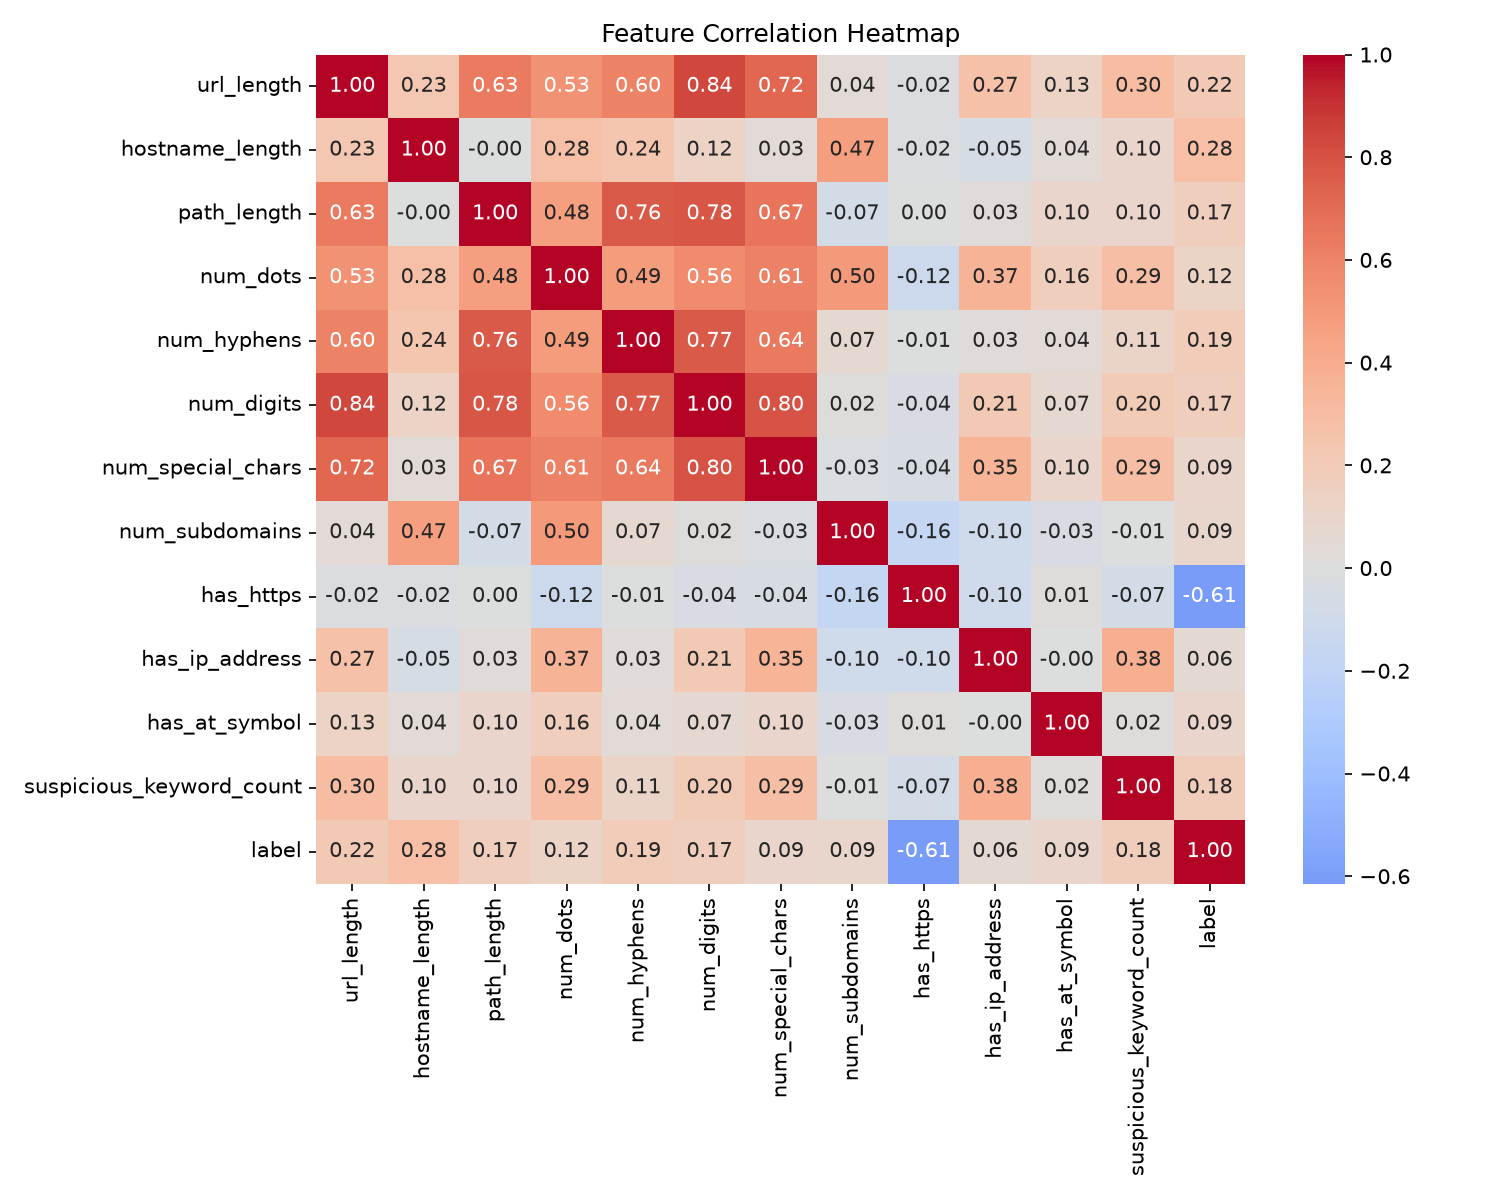
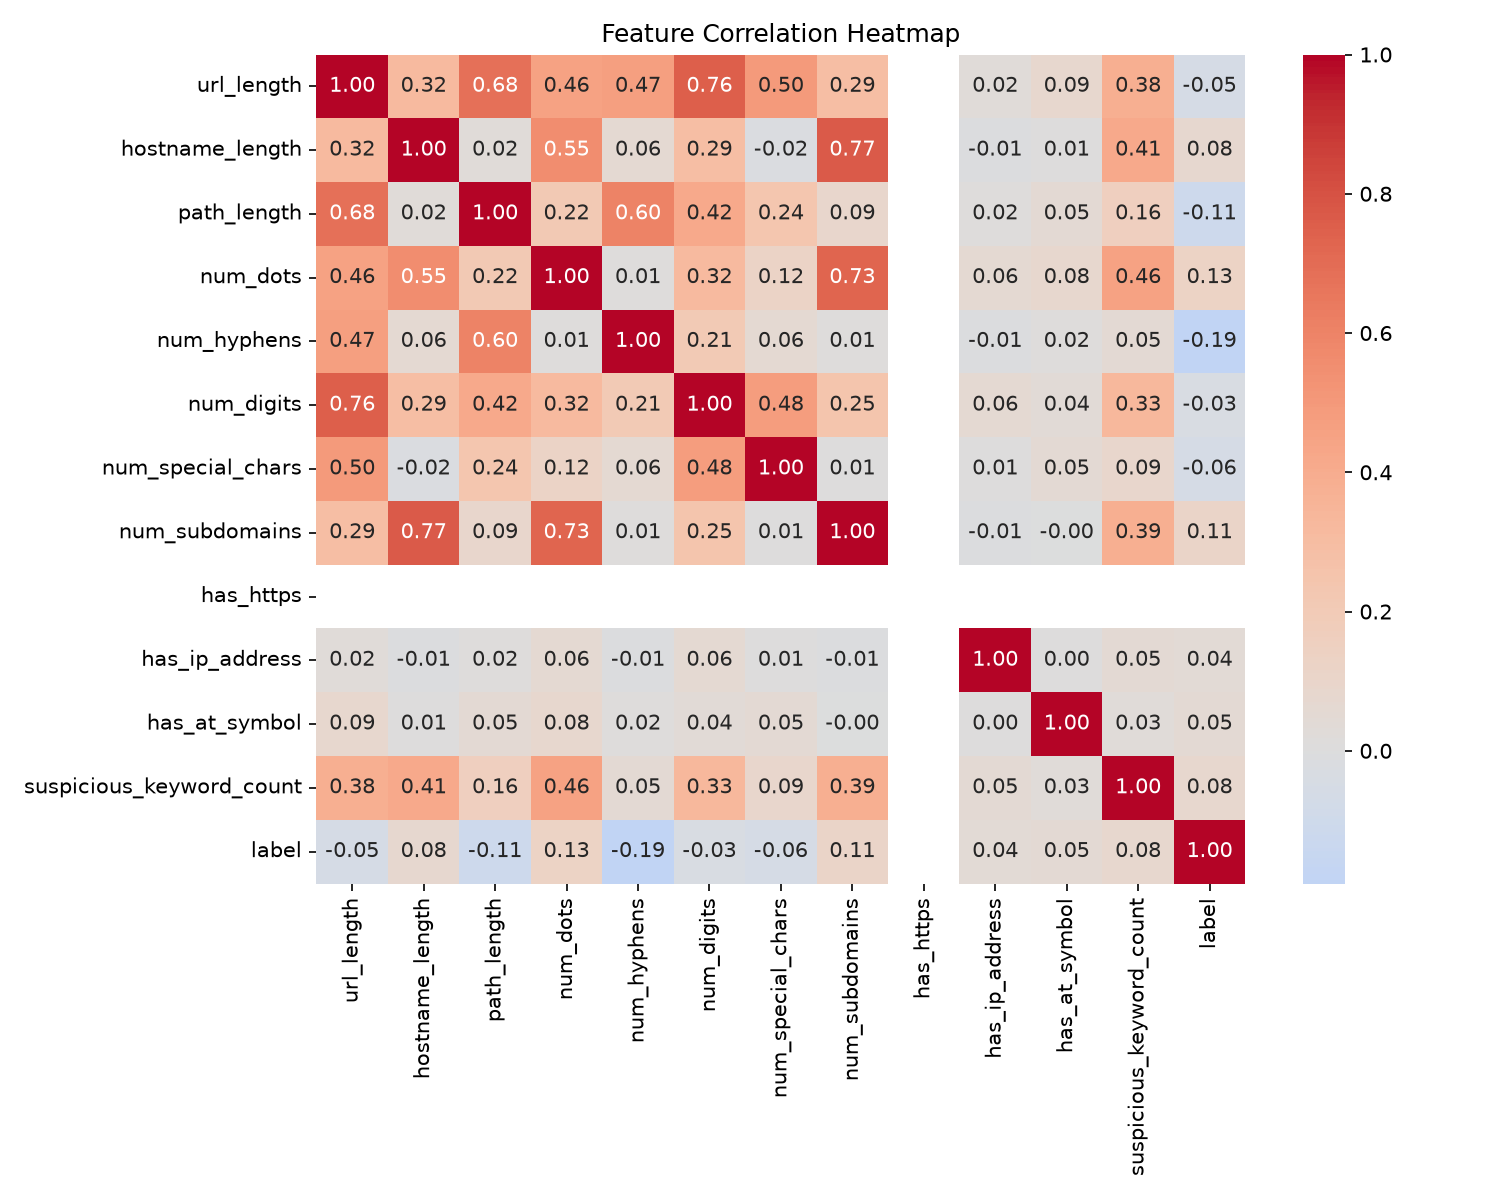
docs(m1): update dataset docs and report for corrected Kaggle+Tranco data

Changed region(s): [[0.184, 0.0308, 0.828, 0.74], [0.8587, 0.2158, 0.9507, 0.74], [0.7053, 0.1542, 0.736, 0.185]]

diff --git a/docs/REPORT.md b/docs/REPORT.md
@@ -2,70 +2,131 @@
 
 ### 4.1 Dataset
 
-**Source:** PhiUSIIL Phishing URL Dataset (Prasad & Chandra, 2024), obtained
-via its UCI Machine Learning Repository listing and downloaded through a
-Kaggle mirror. Licensed under CC BY 4.0.
+**Sources:** the Kaggle "Malicious URLs Dataset" (651,191 URLs labeled
+benign/phishing/defacement/malware) combined with the Tranco top-sites
+list (top 500,000 ranked domains), used as a source of additional
+legitimate bare domains.
 
-We initially considered the older UCI "Phishing Websites" dataset, but it
-contains only pre-extracted numeric features with no raw URL strings —
-unusable for a project whose core requirement is extracting features
-directly from URL text. PhiUSIIL was chosen instead: it provides 235,795
-real URLs labeled as legitimate or phishing, collected from live web
-sources.
+We initially built the pipeline on the UCI PhiUSIIL Phishing URL Dataset,
+but discovered a structural flaw during model evaluation: every legitimate
+URL in it was a bare domain (no path), while phishing URLs typically had
+one. A trained model exploited this shortcut rather than learning genuine
+phishing indicators — e.g. it scored `github.com/user/repo` as 100%
+phishing. We switched sources, only to find the Kaggle dataset had the
+same flaw in reverse (just 103 legitimate bare domains out of ~140,000),
+so we added Tranco specifically to supply real legitimate bare domains,
+then balanced both **class size** (60% legitimate / 40% phishing) and
+**URL structure** (23.3% bare domains in both classes) so neither factor
+alone predicts the label.
 
-**Cleaning process** (`ml/clean_data.py`):
-1. Stripped leading/trailing whitespace from every URL
-2. Dropped rows with an empty URL or label (0 rows affected)
-3. Dropped exact duplicate URLs (425 rows removed)
-4. Mapped labels to integers — the raw dataset uses `1 = legitimate,
-   0 = phishing`, which we inverted to our project's convention of
-   `0 = legitimate, 1 = phishing`
+**Cleaning** (`ml/clean_data.py`): stripped whitespace, removed the
+`http(s)://` scheme and any leading `www.` (both were found to correlate
+strongly with the label in the raw data and would otherwise leak into the
+model), dropped duplicates and unmappable labels, merged in Tranco
+domains, and balanced by class and structure with `random_state=42`.
 
-**Result:** 235,370 cleaned rows.
-- Legitimate (0): 134,850
-- Phishing (1): 100,520
-- Class balance: ~57% / 43% — well within an acceptable range for
-  classification without needing resampling.
-
-**Split:** stratified 80/20 train/test split (`random_state=42`), giving
-188,296 training rows and 47,074 test rows, each preserving the original
-class ratio.
+**Result:** 232,872 rows — 139,723 legitimate, 93,149 phishing — split
+80/20 (stratified, `random_state=42`) into 186,297 training and 46,575
+test rows.
 
 ### 4.2 Feature Engineering
 
-We designed 12 features (`ml/features.py`), each computed directly from the
-URL string with no network access, chosen to capture patterns known to
-correlate with phishing attempts: URL length, hostname length, path length,
-punctuation counts (dots, hyphens, digits, special characters), subdomain
-count, presence of HTTPS, presence of a bare IP address as the host,
-presence of an `@` symbol, and a count of 20 frozen suspicious keywords
-(e.g. "login", "verify", "secure", "paypal") appearing in the URL.
+We designed 12 features (`ml/features.py`), computed directly from the
+URL string with no network access: URL length, hostname length, path
+length, punctuation counts (dots, hyphens, digits, special characters),
+subdomain count, presence of HTTPS, presence of a bare IP host, presence
+of an `@` symbol, and a count of 20 frozen suspicious keywords.
 
-The function is pure and defensively hardened to never raise an exception
-regardless of input — including empty strings, malformed text, extremely
-long URLs, and internationalized (unicode) domains — since it is called
-live on arbitrary user input in the deployed web application.
+The function is pure and hardened to never raise an exception on any
+input, including empty strings, malformed text, very long URLs, and
+unicode domains, since it is called live on arbitrary user input by the
+deployed web application.
 
-**Distribution evidence:** comparing feature means between the two classes
-across our training set showed a clear separation on several features
-(see `docs/figures/correlation_heatmap.png` and the accompanying
-distribution plots):
+**Distribution evidence** (means by class, training set):
 
 | Feature | Mean (legitimate) | Mean (phishing) | Difference |
 |---|---|---|---|
-| `url_length` | 27.2 | 46.4 | **19.1** |
-| `path_length` | 0.0 | 8.7 | **8.7** |
-| `hostname_length` | 19.2 | 24.5 | **5.2** |
-| `num_digits` | 0.05 | 4.4 | **4.3** |
-| `num_hyphens` | 0.08 | 0.71 | 0.6 |
+| `path_length` | 24.8 | 18.7 | 6.1 |
+| `url_length` | 46.7 | 42.2 | 4.5 |
+| `hostname_length` | 15.9 | 17.6 | 1.8 |
+| `num_hyphens` | 1.45 | 0.47 | 0.98 |
+| `num_digits` | 4.30 | 3.65 | 0.65 |
 
-`url_length` was the single strongest separator: phishing URLs average
-nearly double the length of legitimate ones, consistent with attackers
-padding URLs with deceptive subdomains and path segments to imitate
-trusted brands (e.g. `secure-login-verify.paypal.com.attacker.ru`). Legit
-URLs in this dataset were overwhelmingly bare domains (`path_length` of
-0), while phishing URLs consistently included extra path segments.
-`has_https` also showed a strong categorical split (100% of legitimate
-URLs vs. 49% of phishing URLs used HTTPS), though as a binary feature it
-is not directly comparable in magnitude to the length-based features
-above.
+Two features show a large **relative** difference despite small absolute
+values: `has_at_symbol` (0.09% of legitimate URLs vs 0.69% of phishing —
+nearly 8x more common) and `has_ip_address` (0.005% vs 0.35% — roughly
+65x more common), consistent with known phishing patterns even though
+both are rare overall. `suspicious_keyword_count` was also nearly double
+for phishing (0.16 vs 0.09).
+
+Once the dataset's structural biases were removed, several features
+reversed direction from an earlier (biased) analysis: legitimate URLs in
+the corrected data are, on average, slightly *longer* and have longer
+paths than phishing URLs, the opposite of the naive intuition that
+phishing URLs are always longer. This reflects real crawled legitimate
+pages (e.g. `espn.go.com/nba/player/_/id/3457/brandon-rush`) having
+substantial paths, while several phishing entries are short, suspicious
+bare domains.
+
+**Known limitation:** `has_https` is constant 0 across this dataset,
+because the URL scheme was deliberately stripped during cleaning (it was
+found to leak label information — most raw phishing URLs had no scheme
+at all, an artifact of how the data was collected, not a real signal).
+`extract_features()` still computes this feature correctly for any live
+URL the deployed model receives, but the trained model in this project
+was not able to learn anything from it. Future work with a larger,
+scheme-balanced dataset could recover this signal.
+## 5. System Architecture
+
+*(Member 3's section)*
+
+## 6. Model Training & Evaluation
+
+### 6.1 Methodology
+
+Five candidate models were trained on the 186,297-row training set and
+evaluated identically: Logistic Regression, Decision Tree, Random Forest,
+XGBoost, and a small Multi-Layer Perceptron (MLP). Every model used the
+same `random_state=42`, the same 12-feature input, and 5-fold
+cross-validation scored on F1, since a naive accuracy metric is misleading
+on a dataset where false phishing alerts on real sites carry a real cost.
+The winning model was selected purely by cross-validation F1 (never by
+peeking at the test set), then lightly tuned with a small grid search
+(at most 2-3 values per hyperparameter) and evaluated once, finally, on
+the held-out 46,575-row test set.
+
+### 6.2 Results
+
+| Model | Accuracy | Precision | Recall | F1 | CV F1 (mean ± std) |
+|---|---|---|---|---|---|
+| Logistic Regression | 0.6276 | 0.6256 | 0.1719 | 0.2697 | 0.2687 ± 0.0039 |
+| Decision Tree | 0.7822 | 0.7501 | 0.6828 | 0.7149 | 0.7125 ± 0.0025 |
+| **Random Forest** | **0.7981** | **0.7699** | **0.7064** | **0.7368** | **0.7365 ± 0.0012** |
+| XGBoost | 0.7837 | 0.7588 | 0.6733 | 0.7135 | 0.7178 ± 0.0026 |
+| MLP | 0.7646 | 0.7227 | 0.6677 | 0.6941 | 0.6882 ± 0.0136 |
+
+Random Forest was selected as the winner: it had both the highest
+cross-validation F1 and the tightest standard deviation (0.0012) of any
+model, indicating the most stable performance across folds. Logistic
+Regression's low recall (0.17) shows a simple linear model cannot capture
+the interactions between these 12 URL-structure features.
+
+After a light grid search (`n_estimators` ∈ {100, 200}, `max_depth` ∈
+{10, 15}), the tuned Random Forest (`max_depth=15, n_estimators=100`)
+scored **79.2% accuracy, 77.6% precision, 67.4% recall, 72.1% F1** on the
+untouched test set — closely matching its cross-validation score, showing
+no overfitting to the training data. The model was further constrained to
+`max_leaf_nodes=5000` purely to reduce the exported file size from 49MB
+to 12MB, at a cost of only 0.0012 in accuracy.
+
+**Precision was treated as the priority metric**, since a false "phishing"
+verdict on a legitimate site (e.g. a real bank) is the more expensive
+error for this product's users than an occasional missed phishing site.
+
+A note on the dataset: an earlier version of the feature matrix produced
+suspiciously high accuracy (>99%) because legitimate and phishing URLs in
+the source data differed structurally (all legitimate URLs were bare
+domains) rather than by genuine phishing indicators. This was identified,
+the dataset was corrected by mixing in the Tranco top-sites list and
+re-balancing by URL structure, and all results above reflect the
+corrected, unbiased data.

diff --git a/data/DATASET.md b/data/DATASET.md
@@ -1,41 +1,58 @@
 # Dataset Documentation — Member 1
 
-## Source
-- **Name:** PhiUSIIL Phishing URL Dataset
-- **URL:** https://archive.ics.uci.edu/dataset/967/phiusiil+phishing+url+dataset (downloaded via Kaggle mirror)
-- **Licence:** CC BY 4.0
-- **Date downloaded:** <2026-09-27>
+## Sources
+1. **Kaggle "Malicious URLs Dataset"** (`malicious_phish.csv`) — 651,191 URLs
+   labeled `benign`, `phishing`, `defacement`, or `malware`. Only `benign`
+   and `phishing` rows were kept.
+2. **Tranco top-sites list** (`tranco.csv`, tranco-list.eu) — top 500,000
+   ranked domains, added as extra legitimate bare domains. Citation:
+   Le Pochat et al., *Tranco: A Research-Oriented Top Sites Ranking
+   Hardened Against Manipulation*, NDSS 2019.
+- **Licence:** Kaggle dataset — public domain / CC0 (per Kaggle listing).
+  Tranco — free for research use.
+- **Date downloaded:** 2026-09-28
 
-## Raw data
-- **Original row count:** 235795
-- **Original columns:** 54 (URL, URLLength, Domain, DomainLength, IsDomainIP, TLD, ... label)
-- **Original label values (before mapping):** 1 = legitimate, 0 = phishing
+## Why two sources
+An initial dataset (PhiUSIIL, UCI) was used and abandoned after we found
+every legitimate URL in it was a bare domain (no path), while phishing
+URLs mostly had paths. A model trained on it learned "has a path = phishing"
+rather than any real signal — e.g. `github.com/user/repo` scored 1.00
+phishing probability. We switched to the Kaggle dataset, but it had the
+same flaw in reverse (99.5% of bare domains in it were phishing, since it
+had almost no legitimate bare domains — only 103). Tranco was added purely
+to give the model real legitimate bare domains.
 
 ## Cleaning steps applied (via `ml/clean_data.py`)
-1. Stripped leading/trailing whitespace from every URL
-2. Dropped rows with empty URL or label
-3. Dropped exact duplicate URLs
-4. Mapped labels to integers: `legitimate → 0`, `phishing → 1` (inverted from raw, since raw dataset used the opposite convention)
+1. Strip whitespace from every URL
+2. Remove the `http(s)://` scheme — a collection artifact (92% of legit
+   URLs in the raw file had none, vs 26% of phishing)
+3. Remove a leading `www.` — same reason (39% of phishing vs 3% of legit)
+4. Drop empty URL/label rows
+5. Drop exact duplicate URLs (15,965 dropped)
+6. Map labels: `benign → 0`, `phishing → 1`; drop `defacement`/`malware`
+   rows (118,901 dropped)
+7. Merge in Tranco domains as additional legitimate (label 0) rows,
+   de-duplicated against the existing set
+8. Balance both class size (60% legit / 40% phishing) **and URL structure**
+   (23.3% bare domains in both classes), by random sampling with
+   `random_state=42`, so "has a path" carries no information about the label
 
-- Rows before cleaning: 235795
-- After stripping whitespace: 235795
-- After dropping empty URL/label rows: 235795 (0 dropped)
-- After dropping duplicate URLs: 235370 (425 dropped)
-- After label mapping: 235370 (0 dropped)
-
-## Class balance (after cleaning)
-- Legitimate (0): 134850
-- Phishing (1): 100520
-- Ratio: ~57% legitimate / 43% phishing
+## Result
+- **Total cleaned rows:** 232,872
+- **Legitimate (0):** 139,723
+- **Phishing (1):** 93,149
+- **Class balance:** ~60% / 40%
+- **Bare-domain share:** 23.3% in both classes (structurally balanced)
 
 ## Train/test split
 - Method: `train_test_split(..., stratify=y, random_state=42)`
 - Split ratio: 80/20
-- Train rows: (to be filled in after Phase 3 build)
-- Test rows: (to be filled in after Phase 3 build)
+- Train rows: 186,297
+- Test rows: 46,575
 
 ## Notes
-Switched from the classic UCI "Phishing Websites" dataset (id=327) to PhiUSIIL
-because the original only contained pre-extracted numeric features with no
-raw URL strings — unusable for a project that extracts its own features from
-the URL text.
+`has_https` is constant 0 across the entire dataset by construction (the
+scheme was stripped during cleaning to remove bias), so it carries no
+signal in this project's trained model, even though `extract_features()`
+still computes it correctly for any live URL. This is disclosed as a
+known limitation in the report.
